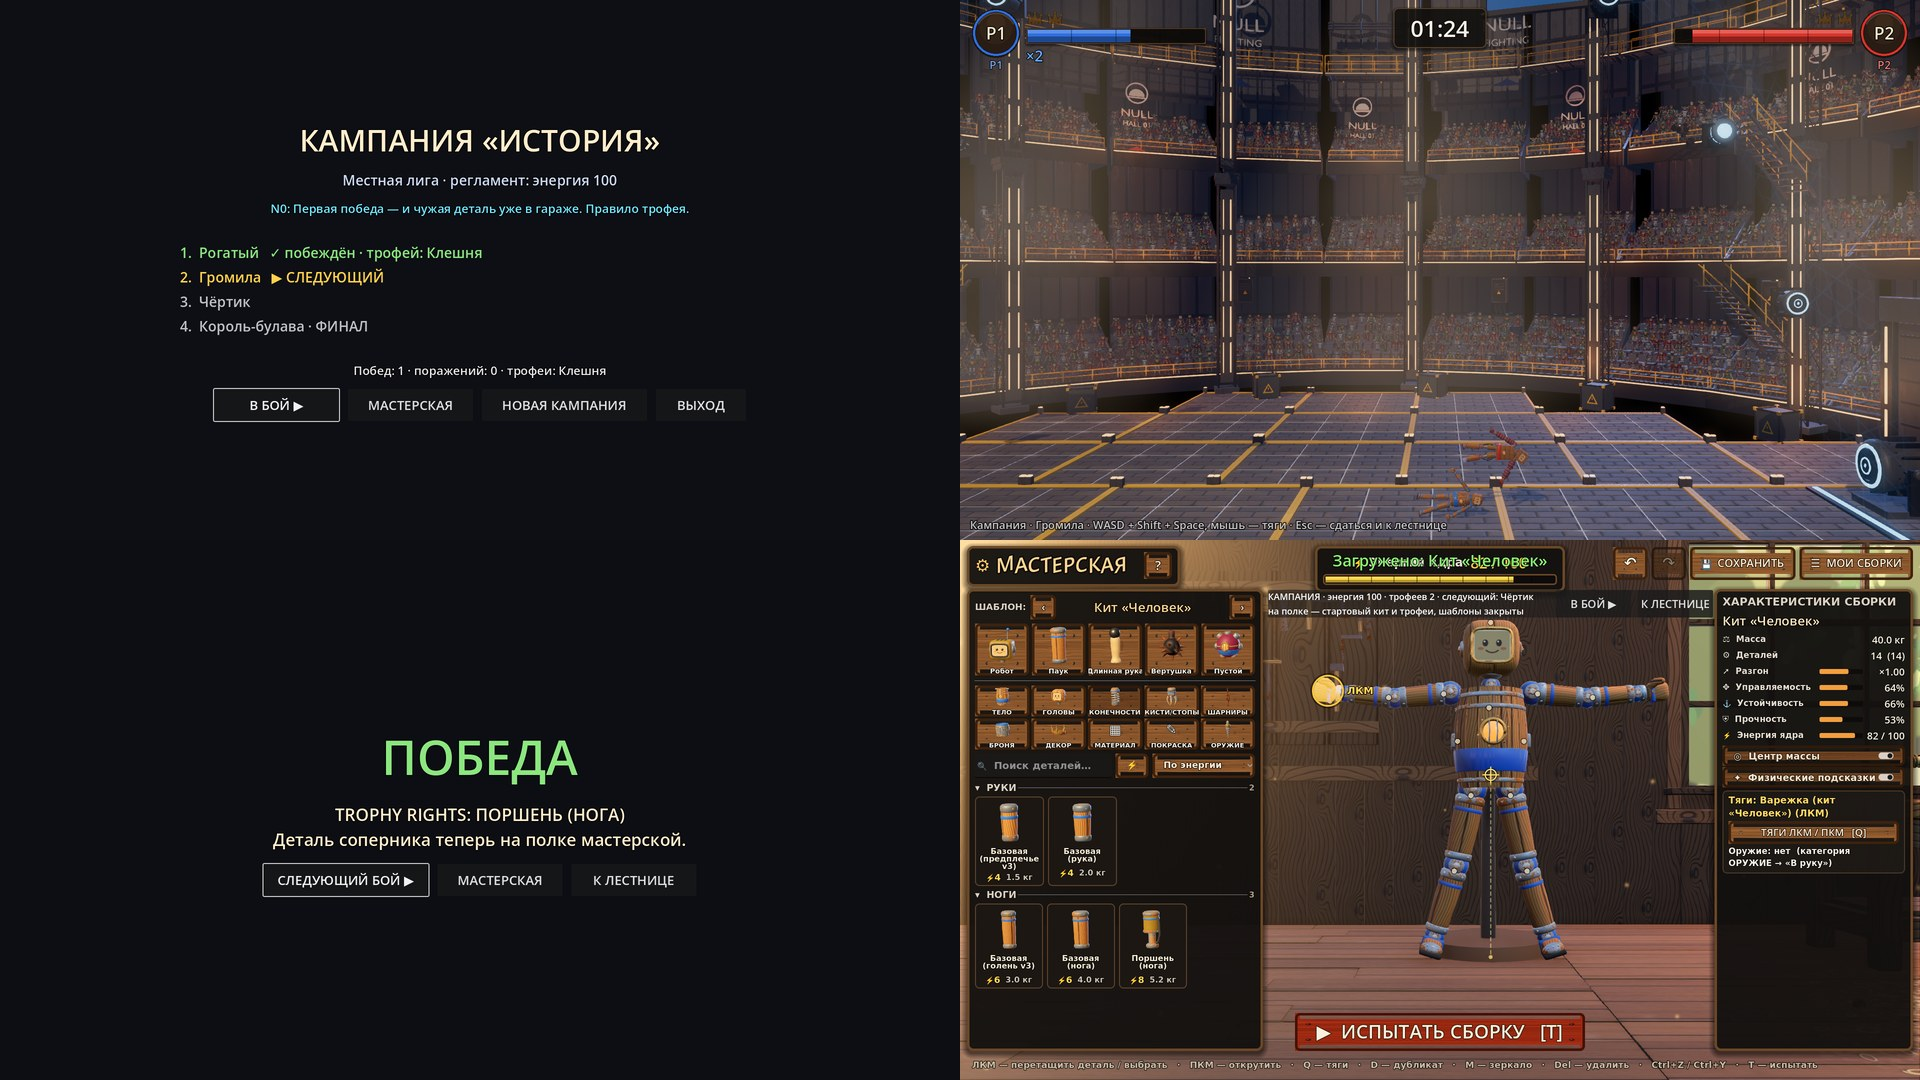
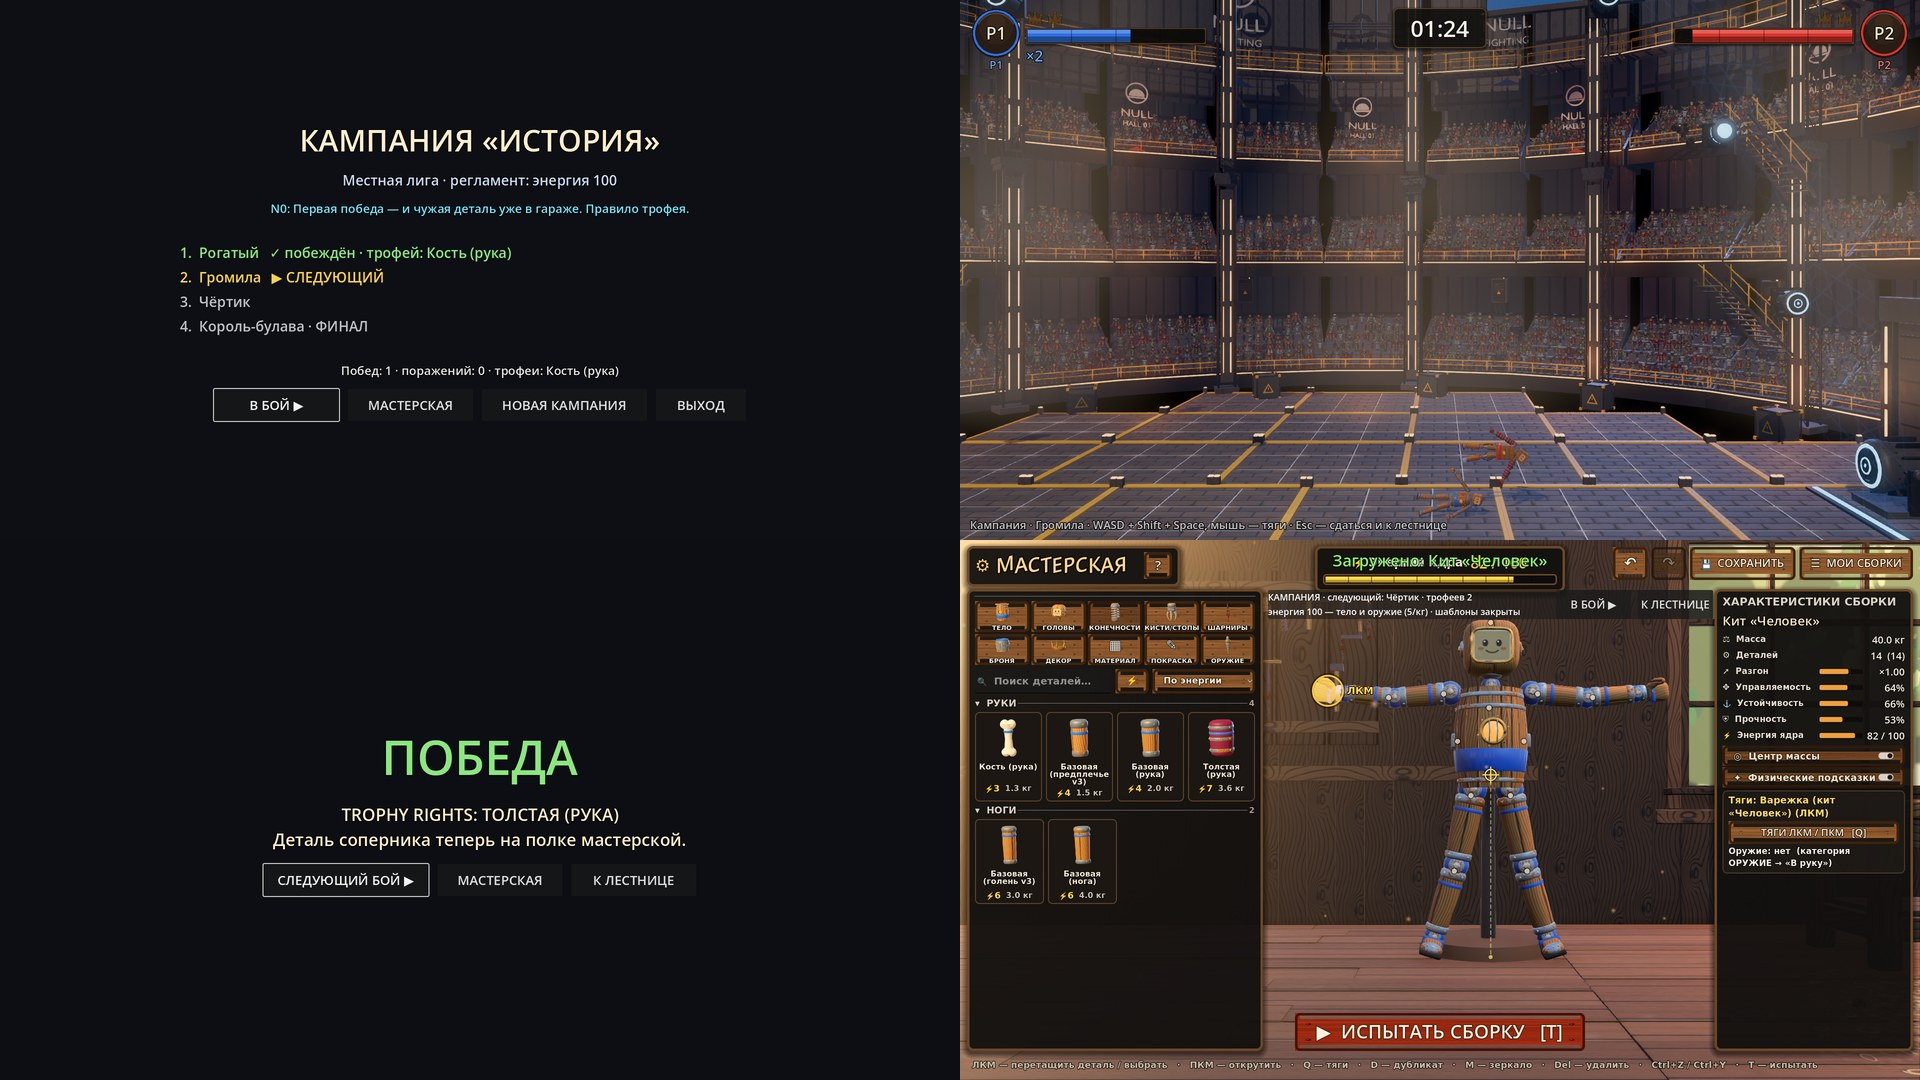
demo: этап 17 — в кампании шаблоны тела и оружия закрыты, оружие в руке ест энергию ядра по массе (5/кг)
Решение автора 30.09: шаблоны в кампании закрываем, у оружия нужно ограничение.
- BodyBlueprint.weapon_energy_per_kg / weapon_energy() / weapon_mass(): оружие в руке входит в energy_used() только по
  регламенту (0 по умолчанию — Быстрый бой и свободная мастерская как раньше); CraftEdit.dup_body несёт его.
- Регламент местной лиги: Tuning.LEAGUE_WEAPON_ENERGY_PER_KG = 5 (киянка 11, молот 21, кистень 33 из бюджета 100).
- CraftEdit.load_weapon_preset закрыт при campaign_templates_locked; workshop_ui прячет плитки шаблонов; верстак в
  кампании стартует пустым.
Проверки: campaign_probe 15/15 (с боем ботов), workshop_probe 186, body_probe OK, kit_probe 3140 OK.

Claude-Session: https://claude.ai/code/session_01Dfbo4PaEbi6mk3m6mDqF3n

diff --git a/docs/plan-demo/17-career-trophy.md b/docs/plan-demo/17-career-trophy.md
@@ -67,34 +67,38 @@
 - `scenes/campaign/campaign.tscn` и `campaign_flow.gd` — поток экранов: лестница → бой → исход → мастерская → следующий бой. Сцена дерева не меняется: бой и мастерская — дети `Stage`;
 - правки в общих файлах:
   - `tuning.gd` — `LEAGUE_ENERGY`, `RIVAL_LEVELS`, `CAMPAIGN_RESULT_DELAY_S`;
-  - `craft_edit.gd` — `campaign_shelf` (фильтр полки) и `campaign_templates_locked` (шаблоны тела закрыты);
+  - `craft_edit.gd` — `campaign_shelf` (фильтр полки) и `campaign_templates_locked` (шаблоны тела и оружия закрыты); копия чертежа несёт регламент оружия;
+  - `ui/workshop_ui.gd` — при `campaign_templates_locked` плитки шаблонов спрятаны;
+  - `body_blueprint.gd` — `weapon_energy_per_kg`, `weapon_energy()`, `weapon_mass()`: оружие в руке входит в `energy_used()` только по регламенту (по умолчанию 0 — как раньше);
   - `playground.gd` — клавиша 9.
 
 **Правила (решения автора 30.09):**
 - все бои в куполе;
 - поражение — бой переигрывается, лестница стоит, штрафа нет;
 - победа — из сборки соперника выпадает случайная деталь. Голова и ядро не выпадают (предложение), сначала выпадают детали, которых у игрока ещё нет. Случай детерминирован по зерну кампании, так что перезапуск игры трофей не перебрасывает;
-- энергия — регламент лиги: бюджет 100 для местной лиги.
+- энергия — регламент лиги: бюджет 100 для местной лиги;
+- шаблоны тела и оружия в кампании закрыты и спрятаны, верстак стартует пустым: всё собирается из деталей полки (автор 30.09);
+- оружие в руке ест ту же энергию, что и тело (автор 30.09: «и на оружие ограничение»). Правило по массе — предложение: `ceil(масса × 5)` за кг (`Tuning.LEAGUE_WEAPON_ENERGY_PER_KG`). Киянка 2,1 кг — 11, меч 1,9 — 10, молот 4,1 — 21, тяжёлый молот 5,6 — 28, кистень 6,5 — 33. Стартовое тело (82) с киянкой — 93 из 100; с молотом — 103, придётся облегчить тело. При перерасходе мастерская пишет «энергия X > бюджета», кампания не пускает в бой. Вне кампании оружие энергию не ест.
 
 **Соперники** (предложение, пресеты кита): Рогатый (ур. 1) → Громила (ур. 2) → Чёртик (ур. 3, помечен под аномалию этапа 15) → Король-булава (ур. 4, финал). Все укладываются в регламент (94 / 97 / 95 / 82 из 100).
 
 **Стартовая полка** (предложение): ядро-бочка, голова-игрушка, базовые конечности, кулак, варежка, ботинок, доп. сустав, короткая рукоять, киянка. Стартовая сборка — «Кит Человек».
 
 **Проверки:**
-- `tests/campaign_probe.tscn` — 14 из 14:
+- `tests/campaign_probe.tscn` — 15 из 15:
   - правила, сохранение и загрузка, поток экранов;
+  - энергия оружия по регламенту (киянка 11, молот — перерасход, без регламента — 0);
   - соперник подлетает и бьёт;
-  - мастерская с полкой «стартовый кит + трофеи» и закрытыми шаблонами, возврат из неё;
+  - мастерская с полкой «стартовый кит + трофеи», закрытыми и спрятанными шаблонами тела и оружия, пустым верстаком; возврат из неё;
   - лига до конца;
   - настоящий бой двух ботов до KO: 45 с, трофей записан.
-- Существующие пробы после правок: `workshop_probe` — 186 OK, `null_field_probe` — 9/9, `scene_switch_probe` — OK.
+- Существующие пробы после правок: `workshop_probe` — 186 OK, `body_probe` — OK, `kit_probe` — 3140 OK, `null_field_probe` — 9/9, `scene_switch_probe` — OK.
 - Кадры: `tests/campaign_snapshot.tscn` (под `xvfb-run`).
 
 **Не сделано и замечено:**
 - выхода бойца нет (этап 16): бой начинается обычным отсчётом;
 - реплики N0 на лестнице — заглушки до этапа 14 (`N0_VOICE.md`);
-- шаблоны тела в мастерской видны, но в кампании не ставятся: клик ничего не делает. Их надо прятать в UI мастерской по `CraftEdit.campaign_templates_locked` — это файл сессии мастерской;
-- шаблоны оружия в кампании доступны все — вопрос автору;
+- кнопка «В руку» не отказывает при перерасходе энергии: оружие встаёт, счётчик энергии уходит за бюджет, «Испытать» и бой не пускают с причиной. Отказ прямо на кнопке — правка `workshop_build.gd` (файл сессии мастерской);
 - у соперников нет оружия; числа уровней ботов — первые, баланс проверяет автор руками;
 - после 4-й победы экран пишет «Продолжение следует». Финал со вторжением — этап 18;
 - навигация по кнопкам с геймпада не проверена;

diff --git a/docs/plan-demo/00-README.md b/docs/plan-demo/00-README.md
@@ -66,7 +66,7 @@
 | 14 | 14-n0.md | N0 в бою: дрон рядом с игроком, реплики, табло цифрами, перевод RU/EN | модель v1 — там же; тексты — `N0_VOICE.md` в ветке `claude/project-thread-c3udni`; PvE-строки — PR #1; кода реплик нет |
 | 15 | 15-audience-vote.md | Голосование зрителей за поле, аномалия «результат не тот» | не начат |
 | 16 | 16-fighter-entrance.md | Выход бойца: ворота → платформа → мембрана → конечности всплывают | не начат |
-| 17 | 17-career-trophy.md | Карьера: лестница местной лиги из 4 боёв, правило трофея, мастерская между боями, сохранение | **v1 готов** (30.09, ветка `claude/modest-brahmagupta-kocf6h`, в неё влит купол 13): клавиша 9, `scenes/campaign/`, `tests/campaign_probe` 14/14; нет выхода бойца (16), N0 — заглушки, шаблоны тела в UI мастерской видны (не ставятся) |
+| 17 | 17-career-trophy.md | Карьера: лестница местной лиги из 4 боёв, правило трофея, мастерская между боями, сохранение | **v1 готов** (30.09, ветка `claude/modest-brahmagupta-kocf6h`, в неё влит купол 13): клавиша 9, `scenes/campaign/`, `tests/campaign_probe` 14/14; шаблоны тела и оружия закрыты, оружие ест энергию (5/кг); нет выхода бойца (16), N0 — заглушки |
 | 18 | 18-first-incursion.md | Первое вторжение: финал демо, PvE с бывшим соперником, крючок N0 | не начат |
 
 **Вехи:**
@@ -97,6 +97,7 @@
 3. **Поражение — переиграть бой без штрафа.**
 4. **Трофей выпадает случайно:** после победы игрок получает случайную деталь соперника, а не выбирает её.
 5. **Финал демо — первое вторжение.**
+6. **Шаблоны тела и оружия в кампании закрыты**, и **у оружия есть ограничение**: оружие в руке ест ту же энергию, что тело. Правило «5 энергии за кг» — предложение, `17-career-trophy.md`.
 
 ## Этапы 01–12 и статус (база боя, Быстрый бой)
 

diff --git a/docs/plan-demo/LORE_NULL.md b/docs/plan-demo/LORE_NULL.md
@@ -63,7 +63,7 @@
 | Граница арены | Упругая мембрана купола: тянется, копит энергию, выбрасывает назад. Отскок от неё — приём. Сейчас на аренах стены и пропасти. | принято (§4) |
 | Модульное тело без классов | Замена деталей — культурная норма; профессиональные бойцы — безумные конструкции. | принято (§2–3) |
 | Кит тела, мастерская, покраска | Гараж бойца. Выход на арену (§7) показывает сборку всему стадиону — ради этого и стоит строить и красить. | принято |
-| Energy | Регламент лиги, весовая категория бюджета: чем выше лига, тем больше энергии. Режим BALANCED из `CONCEPT_V2.md` §23 и есть регламент. | автор 30.09: скорее да, бюджет растёт с лигой |
+| Energy | Регламент лиги, весовая категория бюджета: чем выше лига, тем больше энергии. Оружие в руке — часть бойца, его масса ест ту же энергию. Режим BALANCED из `CONCEPT_V2.md` §23 и есть регламент. | автор 30.09: скорее да, бюджет растёт с лигой; ограничение на оружие — да (правило «по массе» — предложение) |
 | Голова обязательна, лицо — фотография | Правило вещания: табло показывает лицо бойца. В мире конструкций лицо — единственное, что каждый выбирает себе сам, поэтому фото игрока на голове естественно. | предложение |
 | Лут и прогресс в кампании | Правило трофея: победитель забирает одну деталь проигравшего, деталь выпадает случайно. Материалы — призовые и спонсоры лиги. | трофей принят 30.09 (случайный — решение автора), призовые — предложение |
 | Модификаторы матча | Голосование зрителей (§8). | принято |

diff --git a/docs/plan-demo/NOTES.md b/docs/plan-demo/NOTES.md
@@ -13,6 +13,11 @@
 
 ---
 
+## 2026-09-30 — этап 17: оружие в регламенте, шаблоны закрыты (облако)
+Сделано (решение автора): в кампании шаблоны тела и оружия закрыты и спрятаны (CraftEdit.campaign_templates_locked, workshop_ui), верстак пустой; оружие в руке ест энергию ядра по массе — BodyBlueprint.weapon_energy_per_kg (0 вне кампании), регламент местной лиги 5/кг (Tuning.LEAGUE_WEAPON_ENERGY_PER_KG).
+Проверки: campaign_probe 15/15 (с боем ботов), workshop_probe 186, body_probe OK, kit_probe 3140 OK.
+Открыто: «В руку» не отказывает при перерасходе (бой и «Испытать» не пускают) — отказ на кнопке в workshop_build.gd.
+
 ## 2026-09-30 — этап 17: карьера и трофеи v1 (облако)
 Сделано: кампания «История» — `scenes/campaign/campaign.tscn` (клавиша 9): лестница местной лиги (4 соперника, бот RivalBrain ур. 1–4), бой в куполе Old NULL Hall (ветка купола влита в claude/modest-brahmagupta-kocf6h), случайный трофей после победы, переигровка без штрафа, мастерская с полкой «старт + трофеи» и регламентом энергии 100, сохранение user://campaign.tres + blueprints/_campaign.tres. Итог и список файлов — 17-career-trophy.md.
 Проверки: campaign_probe 14/14 (с боем ботов до KO), workshop_probe 186 OK, null_field_probe 9/9, scene_switch OK; лист img/campaign-v1.jpg.
